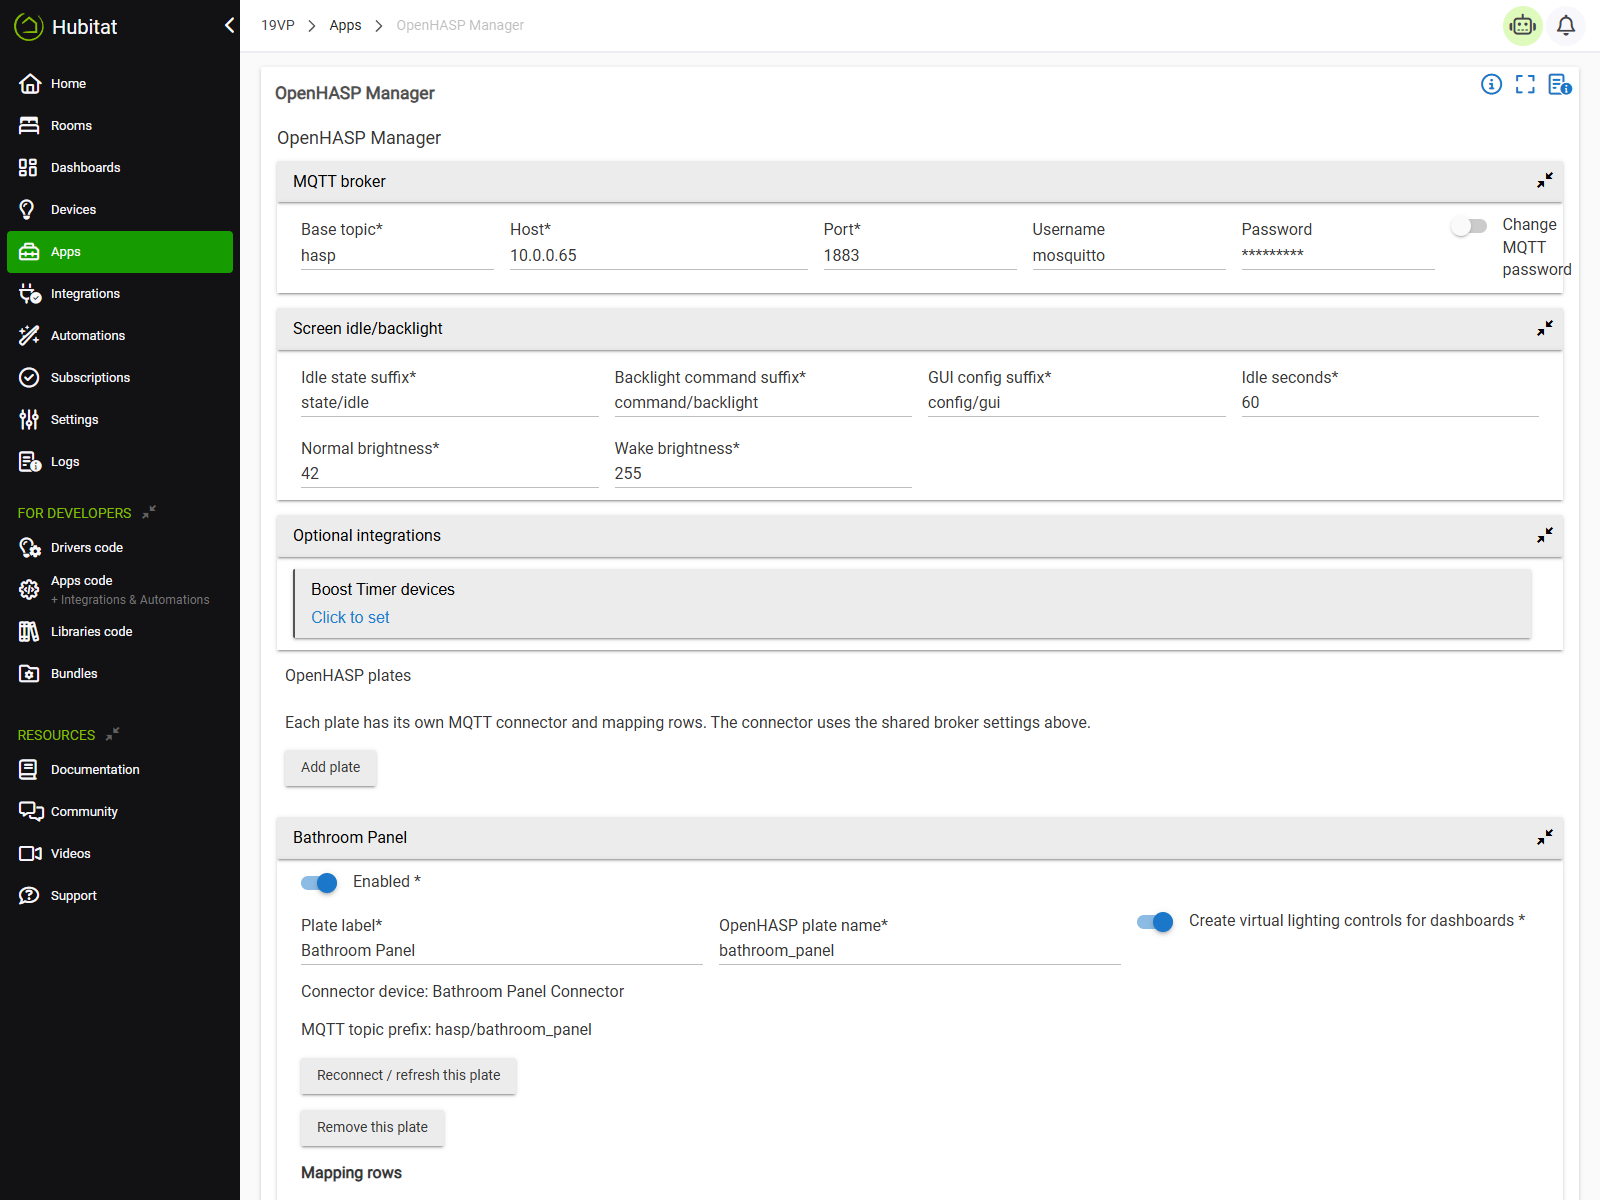
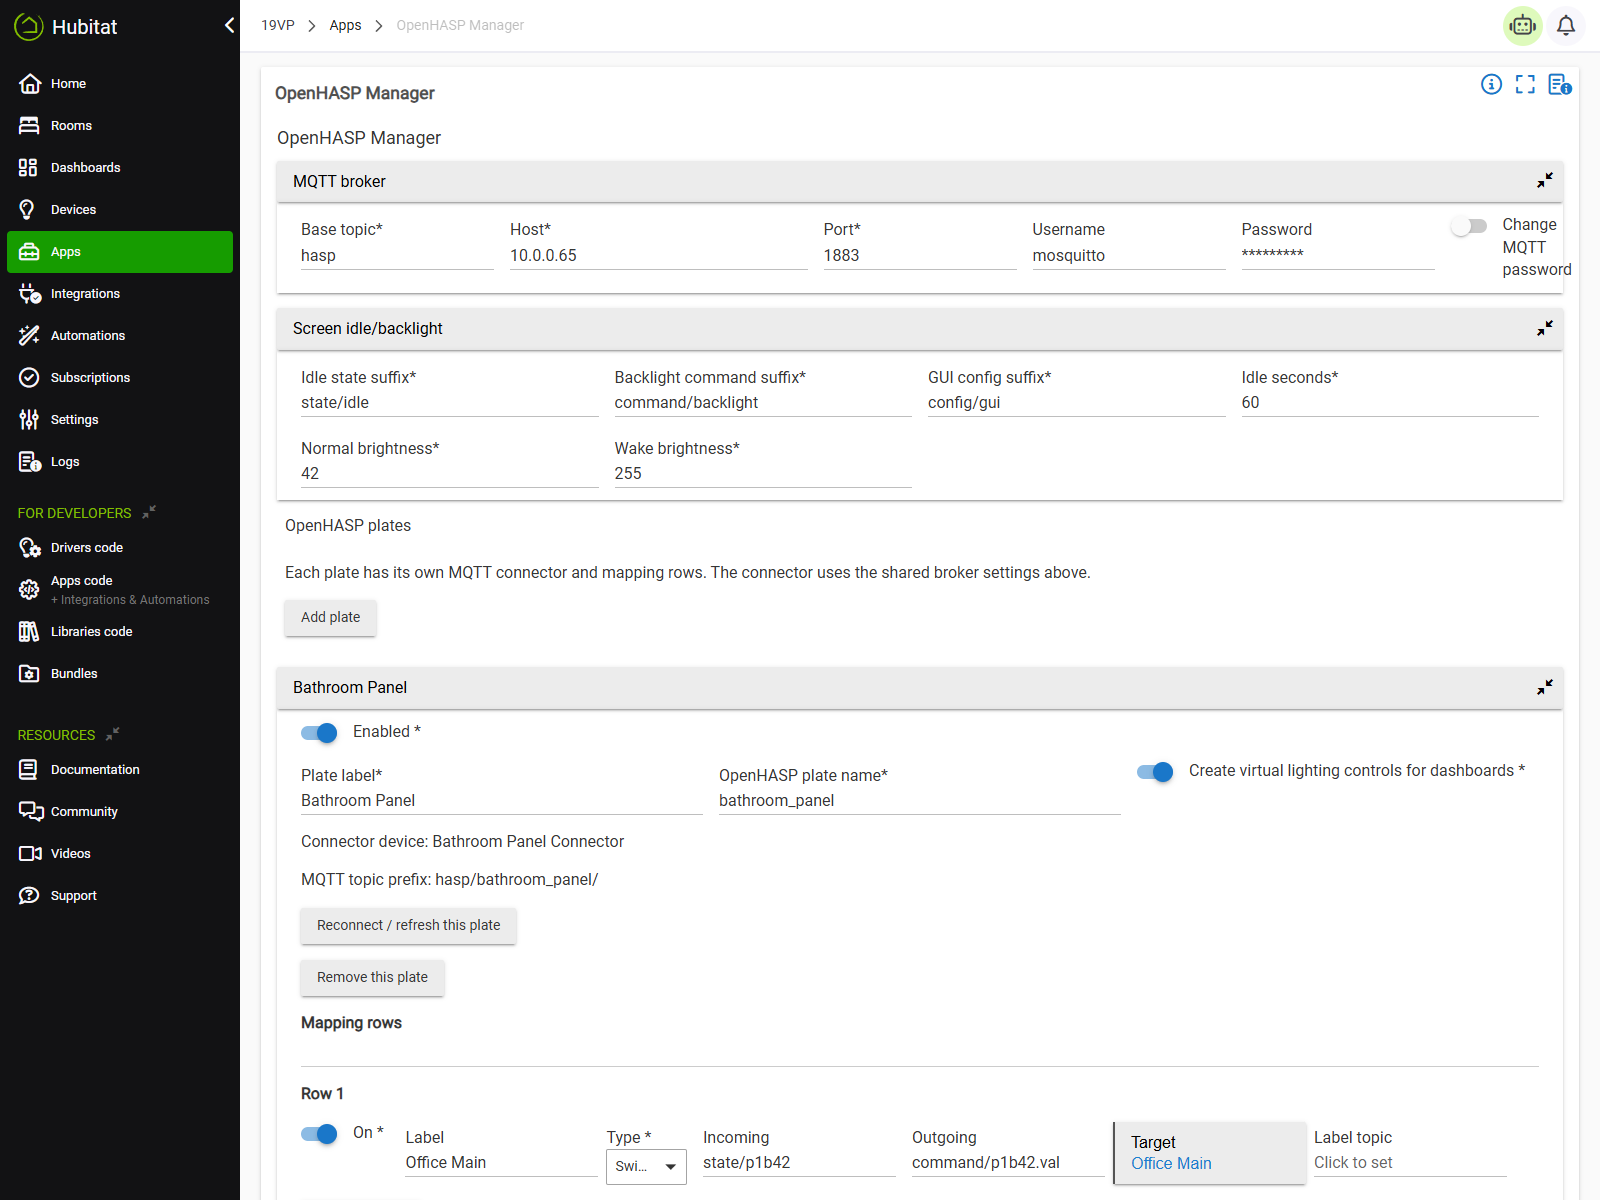
Move boost timer selection into timer rows

diff --git a/README.md b/README.md
@@ -2,7 +2,7 @@
 
 Reusable Hubitat integration for OpenHASP MQTT touch panels.
 
-Version 0.4.3 uses one `OpenHASP Manager` app plus one `OpenHASP Connector` child driver per plate. The connector owns MQTT directly using Hubitat's `interfaces.mqtt`; MQTT Import and MQTT Export are not required for OpenHASP runtime.
+Version 0.4.4 uses one `OpenHASP Manager` app plus one `OpenHASP Connector` child driver per plate. The connector owns MQTT directly using Hubitat's `interfaces.mqtt`; MQTT Import and MQTT Export are not required for OpenHASP runtime.
 
 The MCP/server tooling used during development is not part of day-to-day operation. Once installed, the integration runs on the Hubitat hub and talks to the configured MQTT broker.
 
@@ -19,7 +19,7 @@ The MCP/server tooling used during development is not part of day-to-day operati
 - Optional virtual lighting controls can be created for dashboards.
 - Generic boost timers are provided by the optional `Boost Timer` app and `Boost Timer Device`; OpenHASP can trigger and display them, but the timing behavior is reusable outside OpenHASP.
 
-Supported native Hubitat row types include switch, dimmer, button, lock, temperature, humidity, illuminance, contact, and motion. Optional Boost Timer rows appear when a selected integration device exposes Boost Timer metadata.
+Supported native Hubitat row types include switch, dimmer, button, lock, temperature, humidity, illuminance, contact, and motion. Boost Timer rows can target devices created by the optional Boost Timer app.
 
 ## Current Bathroom Example
 
@@ -44,7 +44,7 @@ Screen defaults:
 
 For testing, the timer defaults to a 1 minute increment and a 3 minute maximum. For production, set the timer preferences to 60 and 180 minutes.
 
-For a reusable setup, install the optional `Boost Timer` app from HPM, create a timer device for the heating circuit, then select that device in OpenHASP Manager's optional integrations section. That enables the `Boost timer` mapping row type. The row will call `boost()` on the device and mirror its `displayText` and switch state back to the panel.
+For a reusable setup, install the optional `Boost Timer` app from HPM, create a timer device for the heating circuit, then select that device directly in the OpenHASP timer row's `Timer target` field. The row will call `boost()` on the device and mirror its `displayText` and switch state back to the panel.
 
 ## Installation
 

diff --git a/docs/configuration.md b/docs/configuration.md
@@ -85,7 +85,7 @@ For the lighting rows, select the real Hubitat devices:
 - Office switch and Office dimmer rows: `Office Main`
 - Bedroom switch and Bedroom dimmer rows: `Bedroom Main`
 
-For the timer row, prefer selecting a `Boost Timer Device` created by the generic `Boost Timer` app in the OpenHASP Manager optional integrations section. Once at least one selected device exposes Boost Timer metadata, `Boost timer` appears as a mapping row type. Leave the target blank only for the built-in legacy fallback timer.
+For the timer row, prefer selecting a `Boost Timer Device` created by the generic `Boost Timer` app directly in the row's `Timer target` field. Leave the target blank only for the built-in legacy fallback timer.
 
 ## 5. MQTT Broker
 
@@ -127,7 +127,7 @@ Switch rows parse OpenHASP `val` values and command the selected Hubitat switch.
 
 Dimmer rows parse OpenHASP slider `val` values and command the selected Hubitat dimmer level.
 
-Switch and dimmer are built from native Hubitat capabilities. Boost timer is different: it is exposed only when a selected integration device advertises Boost Timer metadata.
+Switch and dimmer are built from native Hubitat capabilities. Boost timer is different: it expects a target device that advertises Boost Timer metadata.
 
 Additional native Hubitat capability row types:
 

diff --git a/docs/developer.md b/docs/developer.md
@@ -2,7 +2,7 @@
 
 ## Runtime Architecture
 
-Version 0.4.0 uses a direct MQTT connector per OpenHASP plate.
+Version 0.4.4 uses a direct MQTT connector per OpenHASP plate.
 
 ```mermaid
 flowchart LR
@@ -35,7 +35,7 @@ Hubitat-originated state changes are mirrored back to OpenHASP command topics.
 
 Dimmer rows publish slider level and label text from Hubitat level state. Switch rows publish `1` or `0`. This separation prevents a switch state event from overwriting a slider level.
 
-Timer rows can target the optional generic `Boost Timer Device`. The device publishes `integrationType=boostTimer` and `openHaspRowType=timerButton`; once a Boost Timer device is selected in OpenHASP Manager optional integrations, `Boost timer` is exposed as a row type. In that mode OpenHASP Manager calls `boost()` and mirrors the device `displayText` and switch state back to the panel. Blank-target timer rows still use the manager's legacy fallback timer for backwards compatibility.
+Timer rows can target the optional generic `Boost Timer Device`. The device publishes `integrationType=boostTimer` and `openHaspRowType=timerButton`. OpenHASP Manager calls `boost()` on metadata-bearing timer targets and mirrors the device `displayText` and switch state back to the panel. Blank-target timer rows still use the manager's legacy fallback timer for backwards compatibility.
 
 ## Tests
 